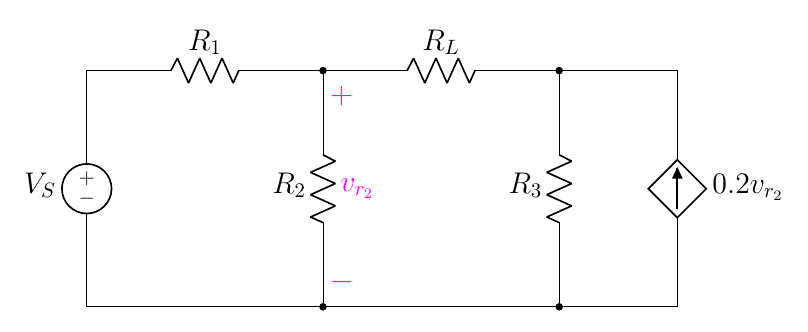
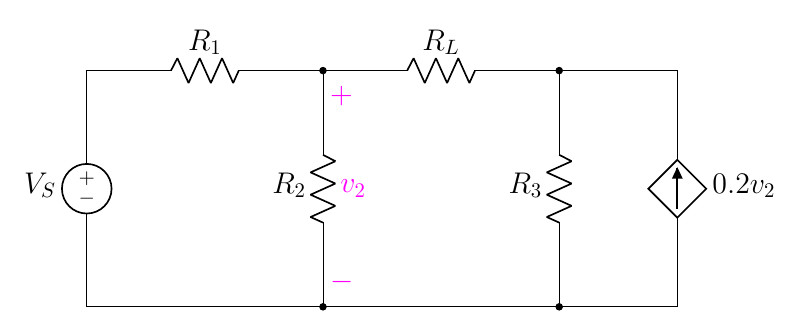
edit 0.1

diff --git a/1.8 Thevinin and Norton/0.0 new assign/0.1(new).tex b/1.8 Thevinin and Norton/0.0 new assign/0.1(new).tex
@@ -10,7 +10,7 @@
         to[R,l_=\rname{2},*-*] ++(0,-4) ++(0,4)
         to[R,l=\rname{L}] ++(4,0)
         to[R,l_=\rname{3},*-*] ++(0,-4) (0,0)
-        to[american controlled current source,l_=$0.2v_{r_2}$] ++(0,4)
+        to[american controlled current source,l_=$0.2v_2$] ++(0,4)
         to[short] ++(-2,0);
 
     %%% find %%%
@@ -21,7 +21,7 @@
         % to[open,v=$v$] ++(2,0);
 
     \draw[magenta](-6,4)  
-        to[open,v^=$v_{r_2}$] ++(0,-4);
+        to[open,v^=$v_{2}$] ++(0,-4);
 
     % \draw[circuitikz/current arrow color=magenta](-4,3.6)
     % to[open,f>^=$\color{magenta}{i_x}$] ++(0,-2);
